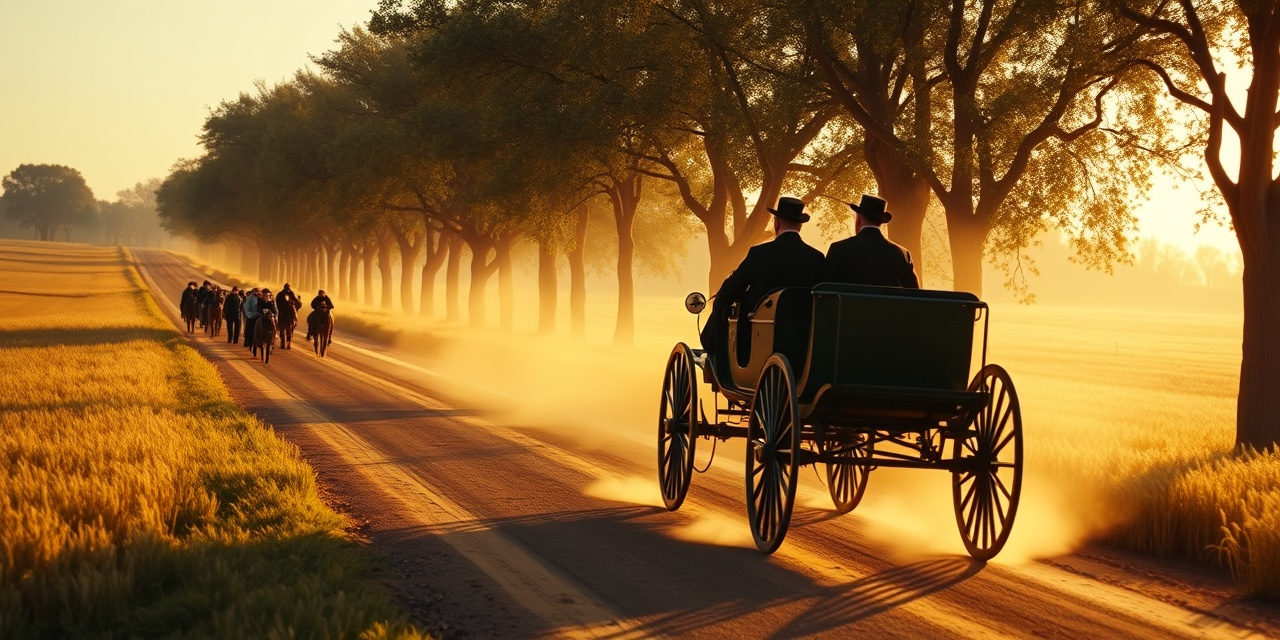
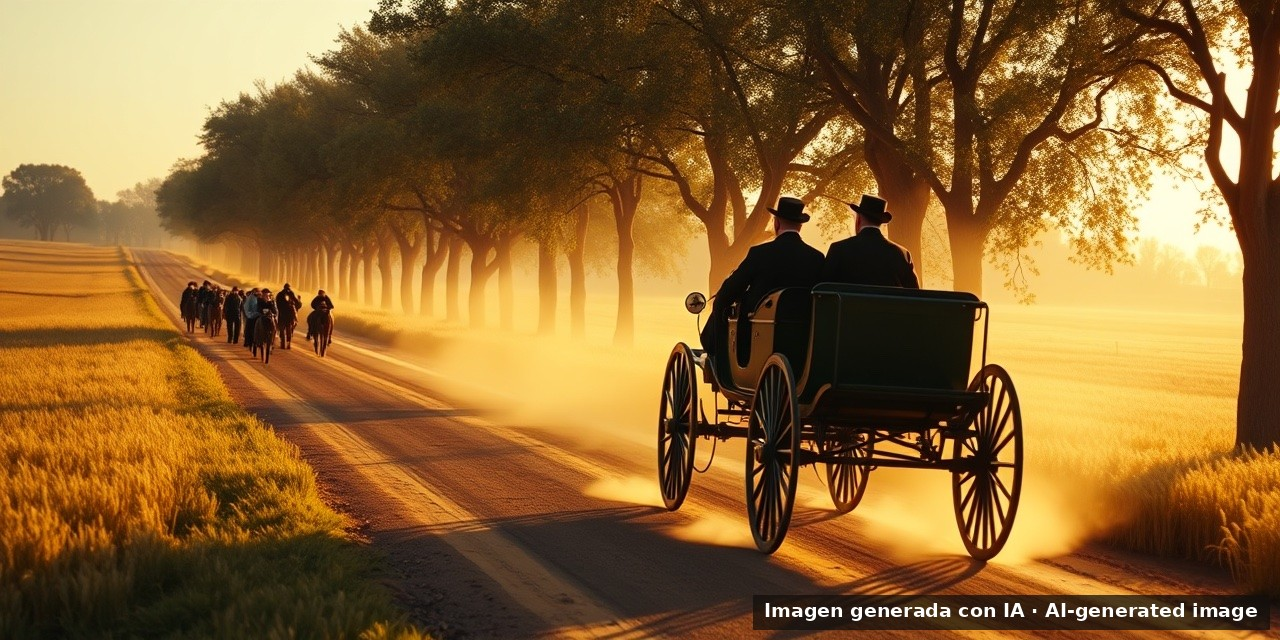
Escaparate: aviso de desarrollo, fauna del Sena de 1894, conceptos de rivales y de entreguerras, marca de IA en las imágenes y créditos y licencias, en español e inglés

Changed region(s): [[0.5625, 0.9062, 1.0, 1.0]]

diff --git a/index.html b/index.html
@@ -343,6 +343,18 @@
       .masthead-top { flex-direction: column; gap: 0.3rem; text-align: center; }
       .era-years { white-space: normal; }
     }
+    .gallery-item img.mosaico { object-fit: contain; }
+    .aviso-desarrollo {
+      border: 2px solid var(--accent-rust);
+      background-color: #efe0c4;
+      padding: 0.9rem 1.2rem;
+      margin: 0 0 1.8rem;
+      text-align: center;
+      font-size: 1.1rem;
+      line-height: 1.5;
+    }
+    .aviso-desarrollo strong { color: var(--accent-rust); font-family: 'Cinzel', serif; letter-spacing: 0.06em; }
+    .aviso-fecha { display: block; font-size: 0.95rem; font-style: italic; color: var(--ink-muted); margin-top: 0.2rem; }
     .prose p { margin: 0 0 1rem; }
     .prose ul, .info-block ol { margin: 0 0 1rem 1.4rem; }
     .prose li, .info-block ol li { margin-bottom: 0.35rem; }
@@ -365,6 +377,11 @@
     </header>
 
     <hr class="double-rule">
+
+    <aside class="aviso-desarrollo" role="note">
+      <strong>Juego en desarrollo.</strong> POLVO Y GLORIA todavía no está terminado: las imágenes de esta página son de trabajo y pueden cambiar.
+      <span class="aviso-fecha">Página actualizada el 25 de noviembre de 2026.</span>
+    </aside>
 
     <figure class="hero-banner gallery-zoom" tabindex="0" data-caption="Cabecera de POLVO Y GLORIA (imagen generada con IA).">
       <img src="banner.jpg" alt="Cabecera de Polvo y Gloria: carrera histórica en carretera de época (imagen generada con IA)">
@@ -528,6 +545,23 @@
       </article>
     </section>
 
+    <div class="ornament-divider"><span>En preparación</span></div>
+
+    <section class="features-grid">
+      <article class="feature-card">
+        <h3>Fauna del valle del Sena</h3>
+        <p>El primer tramo, en el valle del Sena en julio de 1894, tendrá los animales de la zona y de la época: vacas normandas, caballos de tiro y de silla, ovejas merinas, gallinas de Houdan y aves del río, como la garza real y el ánade real.</p>
+      </article>
+      <article class="feature-card">
+        <h3>Los rivales de 1894, en concepto</h3>
+        <p>Conceptos de los vehículos rivales, inspirados en la carrera París-Ruan de 1894: coches de gasolina y de vapor, con toldo, con capota o descubiertos, y un triciclo.</p>
+      </article>
+      <article class="feature-card feature-wide">
+        <h3>La época de entreguerras</h3>
+        <p>Se prepara ya otra época, la de los años 20 y 30, con sus coches y su gente: biplazas deportivos, turismos descubiertos y la ropa de la calle de entonces.</p>
+      </article>
+    </section>
+
     <div class="ornament-divider"><span>Galería</span></div>
 
     <section class="gallery-grid">
@@ -591,6 +625,31 @@
         <div class="gallery-title">Luz de mañana, firme mojado</div>
         <figcaption class="gallery-caption">Luz de mañana con el firme mojado. Captura real del prototipo, calidad ultra.</figcaption>
       </figure>
+      <figure class="gallery-item gallery-zoom" tabindex="0">
+        <img class="mosaico" src="fotos/19-conceptos-rivales-1894-a.jpg" alt="Cuatro conceptos de vehículos rivales de 1894: un phaéton, un cuatro plazas con toldo de flecos, un biplaza con capota y un break-ómnibus de vapor (imagen generada con IA)" loading="lazy">
+        <div class="gallery-title">Rivales de 1894 (I)</div>
+        <figcaption class="gallery-caption">Conceptos de vehículos rivales inspirados en la carrera París-Ruan de 1894. Imagen generada con IA (FLUX.1 [schnell]); no es una captura del juego.</figcaption>
+      </figure>
+      <figure class="gallery-item gallery-zoom" tabindex="0">
+        <img class="mosaico" src="fotos/20-conceptos-rivales-1894-b.jpg" alt="Cuatro conceptos de vehículos rivales de 1894: una victoria remolcada con capota, un cuatro plazas con capota, un dos-à-dos y un triciclo de vapor (imagen generada con IA)" loading="lazy">
+        <div class="gallery-title">Rivales de 1894 (II)</div>
+        <figcaption class="gallery-caption">Más conceptos de vehículos rivales inspirados en la carrera París-Ruan de 1894. Imagen generada con IA (FLUX.1 [schnell]).</figcaption>
+      </figure>
+      <figure class="gallery-item gallery-zoom" tabindex="0">
+        <img class="mosaico" src="fotos/23-conceptos-fauna-sena-1894.jpg" alt="Vaca normanda, caballo de silla, caballo de tiro, oveja merina, garza real y ánade real (imagen generada con IA)" loading="lazy">
+        <div class="gallery-title">Fauna del valle del Sena, 1894</div>
+        <figcaption class="gallery-caption">Vaca normanda, caballo de silla, caballo de tiro, oveja merina, garza real y ánade real. Conceptos generados con IA (FLUX.1 [schnell]).</figcaption>
+      </figure>
+      <figure class="gallery-item gallery-zoom" tabindex="0">
+        <img class="mosaico" src="fotos/21-conceptos-coches-entreguerras.jpg" alt="Cuatro conceptos de coches de los años 20 y 30 (imagen generada con IA)" loading="lazy">
+        <div class="gallery-title">Coches de entreguerras</div>
+        <figcaption class="gallery-caption">Conceptos de coches de los años 20 y 30, para la época de entreguerras. Imagen generada con IA (FLUX.1 [schnell]).</figcaption>
+      </figure>
+      <figure class="gallery-item gallery-zoom" tabindex="0">
+        <img class="mosaico" src="fotos/22-conceptos-personas-entreguerras.jpg" alt="Siete conceptos de personas vestidas a la moda de los años 20 y 30 (imagen generada con IA)" loading="lazy">
+        <div class="gallery-title">La gente de entreguerras</div>
+        <figcaption class="gallery-caption">Conceptos de personas de los años 20 y 30, de frente, con la ropa de la época. Imagen generada con IA (FLUX.1 [schnell]); no son personas reales.</figcaption>
+      </figure>
     </section>
 
     <section class="info-columns">
@@ -613,11 +672,19 @@
       <div class="info-block">
         <h3>Sobre las imágenes</h3>
         <ul>
-          <li>El banner de cabecera es una imagen generada con IA (FLUX.1-schnell).</li>
+          <li>El banner de cabecera es una imagen generada con IA (FLUX.1 [schnell]).</li>
+          <li>Imágenes hechas con IA: el banner y los conceptos de rivales, fauna, coches y personas de la galería, todos generados con FLUX.1 [schnell]. Cada una lleva en una esquina la marca «Imagen generada con IA · AI-generated image». Las capturas, los renders y el mapa no están generados con IA.</li>
           <li>Las capturas son del prototipo en desarrollo, sin la interfaz, y no representan la calidad final.</li>
           <li>Los renders son de los modelos 3D de los coches del juego, todavía sin terminar.</li>
           <li>Ninguna imagen muestra marcas ni logotipos de fabricantes reales.</li>
           <li>Cartografía y relieve: © IGN – RGE ALTI®, BD TOPO®, SCAN État-major® 10K y 40K y BD CARTO® État-major, bajo la Licence Ouverte Etalab 2.0. Datos consultados entre el 12 y el 15 de noviembre de 2026. Es obra derivada: relieve remuestreado, tipos de terreno y trazado devuelto a 1894.</li>
+        </ul>
+        <h3 class="siguiente">Créditos y licencias</h3>
+        <ul>
+          <li><strong>Godot Engine</strong>, el motor del juego (licencia MIT).</li>
+          <li><strong>Blender</strong>, para los modelos y los renders de los coches (licencia GPL; los modelos y las imágenes que salen de Blender son nuestros).</li>
+          <li><strong>FLUX.1 [schnell]</strong>, de Black Forest Labs, para las imágenes generadas con IA (licencia Apache-2.0).</li>
+          <li>Datos del <strong>IGN</strong> de Francia, bajo la Licence Ouverte Etalab 2.0 (ver arriba).</li>
         </ul>
       </div>
     </section>

diff --git a/en/index.html b/en/index.html
@@ -343,6 +343,18 @@
       .masthead-top { flex-direction: column; gap: 0.3rem; text-align: center; }
       .era-years { white-space: normal; }
     }
+    .gallery-item img.mosaico { object-fit: contain; }
+    .aviso-desarrollo {
+      border: 2px solid var(--accent-rust);
+      background-color: #efe0c4;
+      padding: 0.9rem 1.2rem;
+      margin: 0 0 1.8rem;
+      text-align: center;
+      font-size: 1.1rem;
+      line-height: 1.5;
+    }
+    .aviso-desarrollo strong { color: var(--accent-rust); font-family: 'Cinzel', serif; letter-spacing: 0.06em; }
+    .aviso-fecha { display: block; font-size: 0.95rem; font-style: italic; color: var(--ink-muted); margin-top: 0.2rem; }
     .prose p { margin: 0 0 1rem; }
     .prose ul, .info-block ol { margin: 0 0 1rem 1.4rem; }
     .prose li, .info-block ol li { margin-bottom: 0.35rem; }
@@ -365,6 +377,11 @@
     </header>
 
     <hr class="double-rule">
+
+    <aside class="aviso-desarrollo" role="note">
+      <strong>Game in development.</strong> POLVO Y GLORIA is not finished yet: the images on this page are work in progress and may change.
+      <span class="aviso-fecha">Page updated on 25 November 2026.</span>
+    </aside>
 
     <figure class="hero-banner gallery-zoom" tabindex="0" data-caption="POLVO Y GLORIA header (AI-generated image).">
       <img src="../banner.jpg" alt="Polvo y Gloria header: a historical road race of the period (AI-generated image)">
@@ -528,6 +545,23 @@
       </article>
     </section>
 
+    <div class="ornament-divider"><span>In preparation</span></div>
+
+    <section class="features-grid">
+      <article class="feature-card">
+        <h3>Wildlife of the Seine valley</h3>
+        <p>The first stage, in the Seine valley in July 1894, will have the animals of the area and the period: Normande cows, draught and saddle horses, Merino sheep, Houdan hens and river birds such as the grey heron and the mallard.</p>
+      </article>
+      <article class="feature-card">
+        <h3>The 1894 rivals, in concept</h3>
+        <p>Concepts of the rival vehicles, inspired by the 1894 Paris-Rouen race: petrol and steam vehicles, with a canopy, with a folding hood or open, and a tricycle.</p>
+      </article>
+      <article class="feature-card feature-wide">
+        <h3>The interwar years</h3>
+        <p>Another period is already being prepared, the 1920s and 1930s, with its cars and its people: sports two-seaters, open tourers and the everyday clothes of the time.</p>
+      </article>
+    </section>
+
     <div class="ornament-divider"><span>Gallery</span></div>
 
     <section class="gallery-grid">
@@ -591,6 +625,31 @@
         <div class="gallery-title">Morning light, wet road surface</div>
         <figcaption class="gallery-caption">Morning light with a wet road surface. Real screenshot of the prototype, ultra quality.</figcaption>
       </figure>
+      <figure class="gallery-item gallery-zoom" tabindex="0">
+        <img class="mosaico" src="../fotos/19-conceptos-rivales-1894-a.jpg" alt="Four concepts of 1894 rival vehicles: a phaéton, a four-seater with a fringed canopy, a two-seater with a folding hood and a steam break-omnibus (AI-generated image)" loading="lazy">
+        <div class="gallery-title">1894 rivals (I)</div>
+        <figcaption class="gallery-caption">Concepts of rival vehicles inspired by the 1894 Paris-Rouen race. AI-generated image (FLUX.1 [schnell]); not a game screenshot.</figcaption>
+      </figure>
+      <figure class="gallery-item gallery-zoom" tabindex="0">
+        <img class="mosaico" src="../fotos/20-conceptos-rivales-1894-b.jpg" alt="Four concepts of 1894 rival vehicles: a towed victoria with a hood, a four-seater with a folding hood, a dos-à-dos and a steam tricycle (AI-generated image)" loading="lazy">
+        <div class="gallery-title">1894 rivals (II)</div>
+        <figcaption class="gallery-caption">More concepts of rival vehicles inspired by the 1894 Paris-Rouen race. AI-generated image (FLUX.1 [schnell]).</figcaption>
+      </figure>
+      <figure class="gallery-item gallery-zoom" tabindex="0">
+        <img class="mosaico" src="../fotos/23-conceptos-fauna-sena-1894.jpg" alt="Normande cow, saddle horse, draught horse, Merino sheep, grey heron and mallard (AI-generated image)" loading="lazy">
+        <div class="gallery-title">Wildlife of the Seine valley, 1894</div>
+        <figcaption class="gallery-caption">Normande cow, saddle horse, draught horse, Merino sheep, grey heron and mallard. AI-generated concepts (FLUX.1 [schnell]).</figcaption>
+      </figure>
+      <figure class="gallery-item gallery-zoom" tabindex="0">
+        <img class="mosaico" src="../fotos/21-conceptos-coches-entreguerras.jpg" alt="Four concepts of cars from the 1920s and 1930s (AI-generated image)" loading="lazy">
+        <div class="gallery-title">Interwar cars</div>
+        <figcaption class="gallery-caption">Concepts of cars from the 1920s and 1930s, for the interwar period. AI-generated image (FLUX.1 [schnell]).</figcaption>
+      </figure>
+      <figure class="gallery-item gallery-zoom" tabindex="0">
+        <img class="mosaico" src="../fotos/22-conceptos-personas-entreguerras.jpg" alt="Seven concepts of people dressed in the fashion of the 1920s and 1930s (AI-generated image)" loading="lazy">
+        <div class="gallery-title">Interwar people</div>
+        <figcaption class="gallery-caption">Concepts of people from the 1920s and 1930s, seen from the front, in period clothes. AI-generated image (FLUX.1 [schnell]); they are not real people.</figcaption>
+      </figure>
     </section>
 
     <section class="info-columns">
@@ -613,11 +672,19 @@
       <div class="info-block">
         <h3>About the images</h3>
         <ul>
-          <li>The header banner is an AI-generated image (FLUX.1-schnell).</li>
+          <li>The header banner is an AI-generated image (FLUX.1 [schnell]).</li>
+          <li>AI-made images: the banner and the gallery concepts of rivals, wildlife, cars and people, all generated with FLUX.1 [schnell]. Each one carries the mark "Imagen generada con IA · AI-generated image" in a corner. The screenshots, the renders and the map are not AI-generated.</li>
           <li>The screenshots are from the prototype in development, without the interface, and do not represent the final quality.</li>
           <li>The renders are of the 3D models of the game's cars, still unfinished.</li>
           <li>No image shows brands or logos of real manufacturers.</li>
           <li>Mapping and terrain: © IGN – RGE ALTI®, BD TOPO®, SCAN État-major® 10K and 40K and BD CARTO® État-major, under the Licence Ouverte Etalab 2.0. Data consulted between 12 and 15 November 2026. It is a derived work: resampled terrain, terrain types and a route returned to 1894.</li>
+        </ul>
+        <h3 class="siguiente">Credits and licences</h3>
+        <ul>
+          <li><strong>Godot Engine</strong>, the game engine (MIT licence).</li>
+          <li><strong>Blender</strong>, for the car models and renders (GPL licence; the models and images produced with Blender are our own).</li>
+          <li><strong>FLUX.1 [schnell]</strong>, by Black Forest Labs, for the AI-generated images (Apache-2.0 licence).</li>
+          <li>Data from the French <strong>IGN</strong>, under the Licence Ouverte Etalab 2.0 (see above).</li>
         </ul>
       </div>
     </section>

diff --git a/README.md b/README.md
@@ -1,5 +1,7 @@
 # POLVO Y GLORIA — juego de carreras históricas en carretera abierta (1894-1970)
 
+> **Juego en desarrollo.** POLVO Y GLORIA todavía no está terminado: las imágenes de esta página son de trabajo y pueden cambiar. *Actualizado el 25 de noviembre de 2026.*
+
 ![POLVO Y GLORIA, carreras históricas en carretera abierta](banner.jpg)
 
 <p align="center">
@@ -130,6 +132,12 @@ Lo que viene, en este orden y **sin fechas prometidas**:
 5. La cabina y los tres niveles de manejo.
 6. Las eras II a IV y, después, la expansión de la era V.
 
+## En preparación
+
+- **Fauna del valle del Sena.** El primer tramo, en el valle del Sena en julio de 1894, tendrá los animales de la zona y de la época: vacas normandas, caballos de tiro y de silla, ovejas merinas, gallinas de Houdan y aves del río, como la garza real y el ánade real.
+- **Los rivales de 1894, en concepto.** Conceptos de los vehículos rivales, inspirados en la carrera París-Ruan de 1894: coches de gasolina y de vapor, con toldo, con capota o descubiertos, y un triciclo.
+- **La época de entreguerras.** Se prepara ya otra época, la de los años 20 y 30, con sus coches y su gente: biplazas deportivos, turismos descubiertos y la ropa de la calle de entonces.
+
 ## Galería
 
 | | |
@@ -146,14 +154,28 @@ Lo que viene, en este orden y **sin fechas prometidas**:
 | *El break-ómnibus de vapor n.º 10. Render del modelo 3D.* | *Tu coche, el n.º 15. Render del modelo con materiales (librea en estudio).* |
 | ![Puesto de conducción](fotos/03-coche-n15-puesto-de-conduccion.jpg) | ![Luz de mañana, firme mojado](fotos/06-luz-manana-firme-mojado.jpg) |
 | *El puesto de conducción: caña de dirección, palancas y asiento capitoné. Render.* | *Luz de mañana con el firme mojado. Captura real del prototipo, calidad ultra.* |
+| ![Conceptos de rivales de 1894 (I)](fotos/19-conceptos-rivales-1894-a.jpg) | ![Conceptos de rivales de 1894 (II)](fotos/20-conceptos-rivales-1894-b.jpg) |
+| *Conceptos de vehículos rivales inspirados en la carrera París-Ruan de 1894. Imagen generada con IA (FLUX.1 [schnell]); no es una captura del juego.* | *Más conceptos de vehículos rivales inspirados en la carrera París-Ruan de 1894. Imagen generada con IA (FLUX.1 [schnell]).* |
+| ![Fauna del valle del Sena, 1894](fotos/23-conceptos-fauna-sena-1894.jpg) | ![Coches de entreguerras](fotos/21-conceptos-coches-entreguerras.jpg) |
+| *Vaca normanda, caballo de silla, caballo de tiro, oveja merina, garza real y ánade real. Conceptos generados con IA (FLUX.1 [schnell]).* | *Conceptos de coches de los años 20 y 30, para la época de entreguerras. Imagen generada con IA (FLUX.1 [schnell]).* |
+| ![La gente de entreguerras](fotos/22-conceptos-personas-entreguerras.jpg) | |
+| *Conceptos de personas de los años 20 y 30, de frente, con la ropa de la época. Imagen generada con IA (FLUX.1 [schnell]); no son personas reales.* | |
 
 ## Sobre las imágenes
 
-- El **banner** de cabecera es una **imagen generada con IA** (FLUX.1-schnell).
+- El **banner** de cabecera es una **imagen generada con IA** (FLUX.1 [schnell]).
+- **Imágenes hechas con IA:** el banner y los conceptos de rivales, fauna, coches y personas de la galería, todos generados con FLUX.1 [schnell]. Cada una lleva en una esquina la marca «Imagen generada con IA · AI-generated image». Las capturas, los renders y el mapa no están generados con IA.
 - Las **capturas** son del prototipo en desarrollo, sin la interfaz, y no representan la calidad final.
 - Los **renders** son de los modelos 3D de los coches del juego, todavía sin terminar.
 - Ninguna imagen muestra marcas ni logotipos de fabricantes reales.
 - **Cartografía y relieve:** © IGN – RGE ALTI®, BD TOPO®, SCAN État-major® 10K y 40K y BD CARTO® État-major, bajo la Licence Ouverte Etalab 2.0. Datos consultados entre el 12 y el 15 de noviembre de 2026. Es obra derivada: relieve remuestreado, tipos de terreno y trazado devuelto a 1894.
+
+## Créditos y licencias
+
+- **Godot Engine**, el motor del juego (licencia MIT).
+- **Blender**, para los modelos y los renders de los coches (licencia GPL; los modelos y las imágenes que salen de Blender son nuestros).
+- **FLUX.1 [schnell]**, de Black Forest Labs, para las imágenes generadas con IA (licencia Apache-2.0).
+- Datos del **IGN** de Francia, bajo la Licence Ouverte Etalab 2.0 (ver «Sobre las imágenes»).
 
 ## El estudio
 

diff --git a/README.en.md b/README.en.md
@@ -1,5 +1,7 @@
 # POLVO Y GLORIA — historical open-road racing game (1894-1970)
 
+> **Game in development.** POLVO Y GLORIA is not finished yet: the images on this page are work in progress and may change. *Updated on 25 November 2026.*
+
 ![POLVO Y GLORIA, historical open-road racing](banner.jpg)
 
 <p align="center">
@@ -130,6 +132,12 @@ What comes next, in this order and **with no promised dates**:
 5. The cab and the three handling levels.
 6. Eras II to IV and, after that, the era V expansion.
 
+## In preparation
+
+- **Wildlife of the Seine valley.** The first stage, in the Seine valley in July 1894, will have the animals of the area and the period: Normande cows, draught and saddle horses, Merino sheep, Houdan hens and river birds such as the grey heron and the mallard.
+- **The 1894 rivals, in concept.** Concepts of the rival vehicles, inspired by the 1894 Paris-Rouen race: petrol and steam vehicles, with a canopy, with a folding hood or open, and a tricycle.
+- **The interwar years.** Another period is already being prepared, the 1920s and 1930s, with its cars and its people: sports two-seaters, open tourers and the everyday clothes of the time.
+
 ## Gallery
 
 | | |
@@ -146,14 +154,28 @@ What comes next, in this order and **with no promised dates**:
 | *Steam break-omnibus No. 10. Render of the 3D model.* | *Your car, No. 15. Render of the model with materials (studio livery).* |
 | ![Driving position](fotos/03-coche-n15-puesto-de-conduccion.jpg) | ![Morning light, wet road surface](fotos/06-luz-manana-firme-mojado.jpg) |
 | *The driving position: tiller, levers and tufted seat. Render.* | *Morning light with a wet road surface. Real screenshot of the prototype, ultra quality.* |
+| ![1894 rival concepts (I)](fotos/19-conceptos-rivales-1894-a.jpg) | ![1894 rival concepts (II)](fotos/20-conceptos-rivales-1894-b.jpg) |
+| *Concepts of rival vehicles inspired by the 1894 Paris-Rouen race. AI-generated image (FLUX.1 [schnell]); not a game screenshot.* | *More concepts of rival vehicles inspired by the 1894 Paris-Rouen race. AI-generated image (FLUX.1 [schnell]).* |
+| ![Wildlife of the Seine valley, 1894](fotos/23-conceptos-fauna-sena-1894.jpg) | ![Interwar cars](fotos/21-conceptos-coches-entreguerras.jpg) |
+| *Normande cow, saddle horse, draught horse, Merino sheep, grey heron and mallard. AI-generated concepts (FLUX.1 [schnell]).* | *Concepts of cars from the 1920s and 1930s, for the interwar period. AI-generated image (FLUX.1 [schnell]).* |
+| ![Interwar people](fotos/22-conceptos-personas-entreguerras.jpg) | |
+| *Concepts of people from the 1920s and 1930s, seen from the front, in period clothes. AI-generated image (FLUX.1 [schnell]); they are not real people.* | |
 
 ## About the images
 
-- The header **banner** is an **AI-generated image** (FLUX.1-schnell).
+- The header **banner** is an **AI-generated image** (FLUX.1 [schnell]).
+- **AI-made images:** the banner and the gallery concepts of rivals, wildlife, cars and people, all generated with FLUX.1 [schnell]. Each one carries the mark "Imagen generada con IA · AI-generated image" in a corner. The screenshots, the renders and the map are not AI-generated.
 - The **screenshots** are from the prototype in development, without the interface, and do not represent the final quality.
 - The **renders** are of the 3D models of the game's cars, still unfinished.
 - No image shows brands or logos of real manufacturers.
 - **Mapping and terrain:** © IGN – RGE ALTI®, BD TOPO®, SCAN État-major® 10K and 40K and BD CARTO® État-major, under the Licence Ouverte Etalab 2.0. Data consulted between 12 and 15 November 2026. It is a derived work: resampled terrain, terrain types and a route returned to 1894.
+
+## Credits and licences
+
+- **Godot Engine**, the game engine (MIT licence).
+- **Blender**, for the car models and renders (GPL licence; the models and images produced with Blender are our own).
+- **FLUX.1 [schnell]**, by Black Forest Labs, for the AI-generated images (Apache-2.0 licence).
+- Data from the French **IGN**, under the Licence Ouverte Etalab 2.0 (see "About the images").
 
 ## The studio
 
